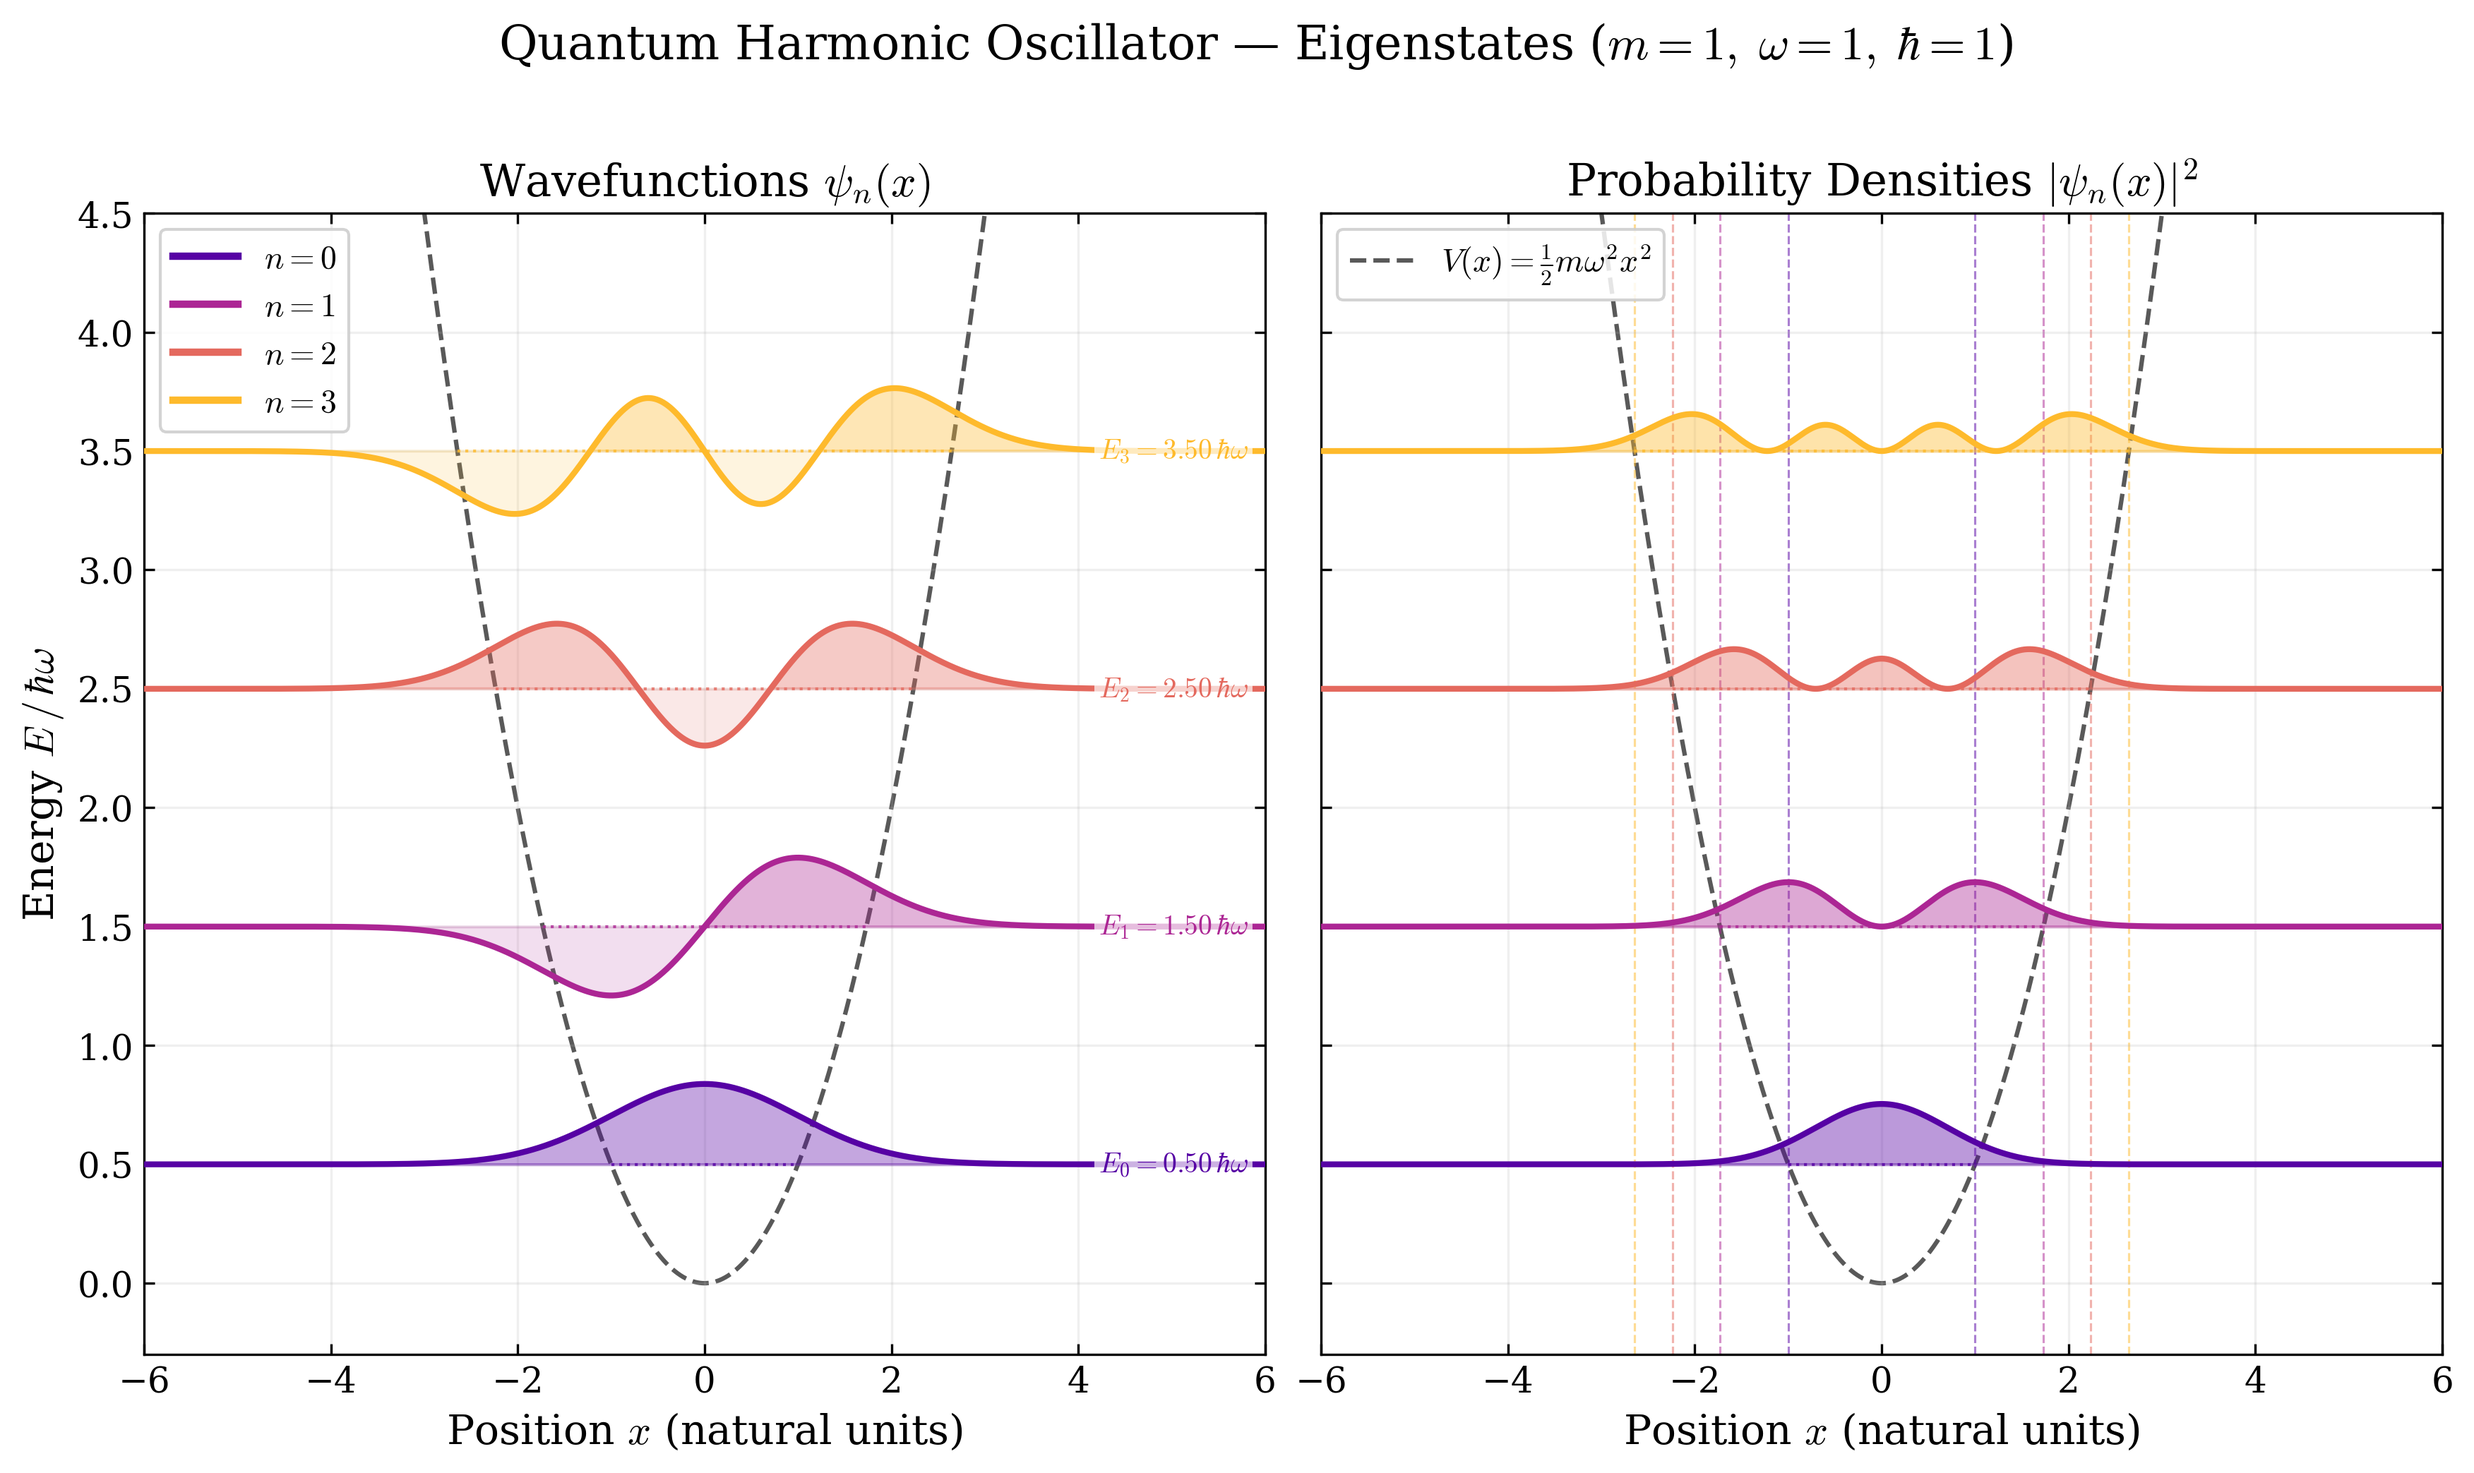
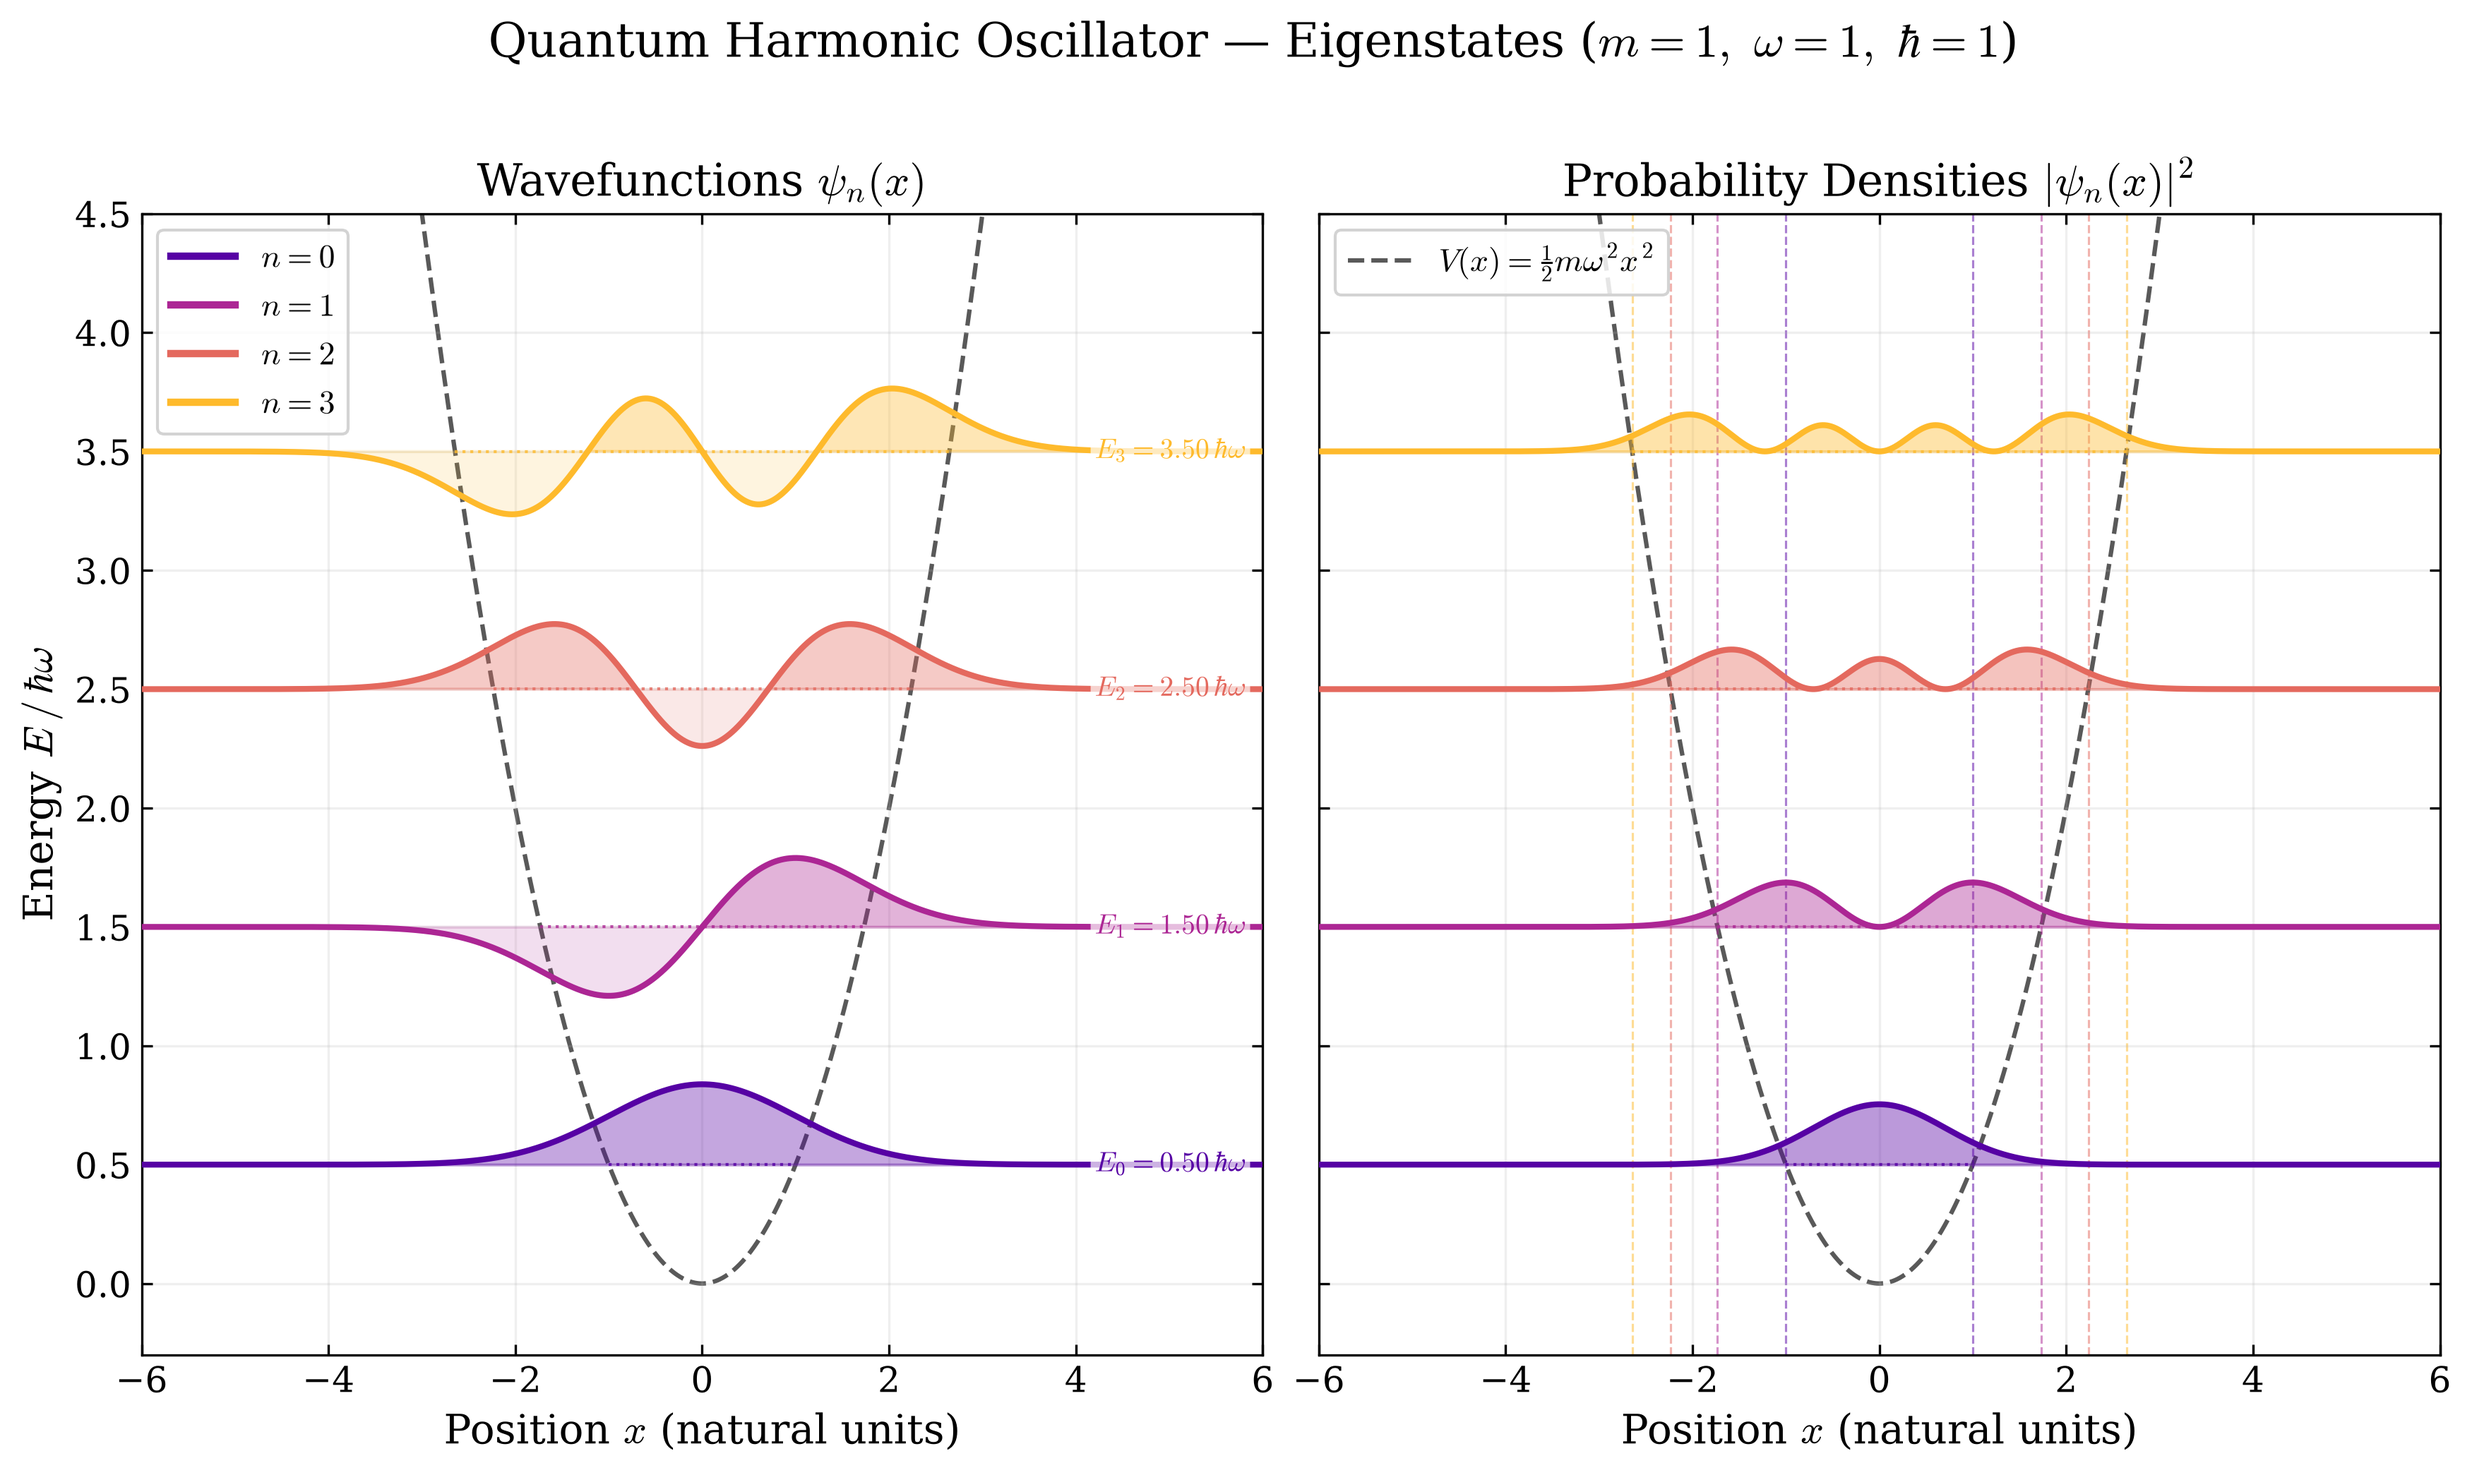
docs(physics): correct classically forbidden barrier description and add license

diff --git a/src/engine.py b/src/engine.py
@@ -165,7 +165,10 @@ class QuantumHarmonicOscillator:
 
         At x_tp, the total energy equals the potential energy V(x_tp) = E_n,
         leaving zero kinetic energy — a particle here would stop and reverse
-        classically. Quantum mechanically, tunneling allows |ψ_n|² to be
+        classically. Quantum mechanically, The exponential tail extends past x_tp because a bound state in a potential
+well is not compactly supported. This is the boundary between classically
+allowed and classically forbidden motion, not tunnelling: there is no
+barrier and no second allowed region. It allows |psi_n|^2 tobe
         non-zero beyond this point.
 
         Args:

diff --git a/README.md b/README.md
@@ -72,7 +72,10 @@ $$\boxed{E_n = \left(n + \frac{1}{2}\right)\hbar\omega, \quad n = 0, 1, 2, \ldot
 
 The $\frac{1}{2}\hbar\omega$ **zero-point energy** at $n=0$ is a profound consequence of the **Heisenberg Uncertainty Principle** — the particle can never be at rest, even at absolute zero temperature. Classically, the particle would be stationary at the potential minimum. Quantum mechanically, it fluctuates forever.
 
-The **classical turning points** $x_{tp} = \sqrt{2E_n / m\omega^2}$, where $E_n = V(x_{tp})$, are marked on the probability density plot. The non-zero value of $|\psi_n|^2$ beyond these points is a direct visualization of **quantum tunneling**.
+The **classical turning points** $x_{tp} = \sqrt{2E_n / m\omega^2}$, where $E_n = V(x_{tp})$, are marked on the probability density plot. The density is non-zero beyond these points because $E_n < V(x)$ there: it is the
+evanescent tail of the bound state, marking the boundary between classically allowed
+and classically forbidden motion. **This is not quantum tunnelling** — there is no
+barrier and no second allowed region.
 
 ---
 
@@ -115,7 +118,7 @@ computational-physics-toolbox/
 - **Object-Oriented Physics Engine** — `QuantumHarmonicOscillator` class with full parameter control over mass $m$, angular frequency $\omega$, and $\hbar$.
 - **Dual-Panel Publication Figure** — Side-by-side visualization of wavefunctions $\psi_n(x)$ and probability densities $|\psi_n(x)|^2$, vertically offset by their quantized energy levels.
 - **Sequential Auto-Saving** — Each run automatically produces a new uniquely numbered file (`qho_plot_00.png`, `qho_plot_01.png`, …) inside the `Assets/` directory. No run ever overwrites a previous result.
-- **Classical Turning Points** — Automatically computed and annotated on the probability density panel, making quantum tunneling immediately visible.
+- **Classical Turning Points** — Automatically computed and annotated on the probability density panel, making the classically forbidden region immediately visible.
 - **LaTeX Math Rendering** — All axis labels, titles, and annotations use Matplotlib's Computer Modern math font for a genuine journal-quality aesthetic.
 - **Perceptual Colormap** — Uses the `plasma` colormap, which is perceptually uniform and remains distinguishable in greyscale (for print).
 - **Headless / WSL Compatible** — Uses `plt.savefig` exclusively; no GUI window is required.
